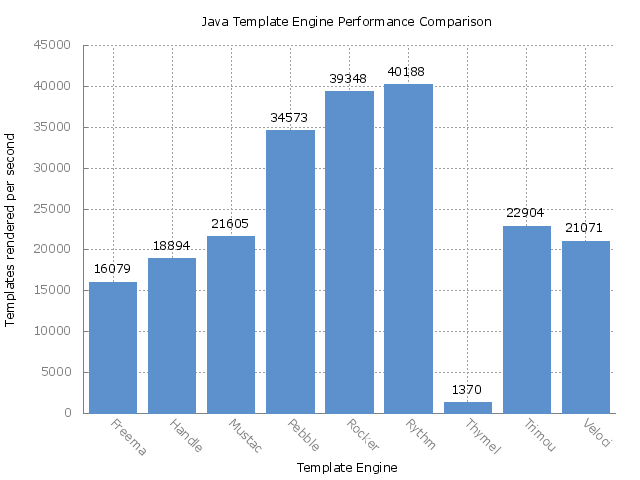
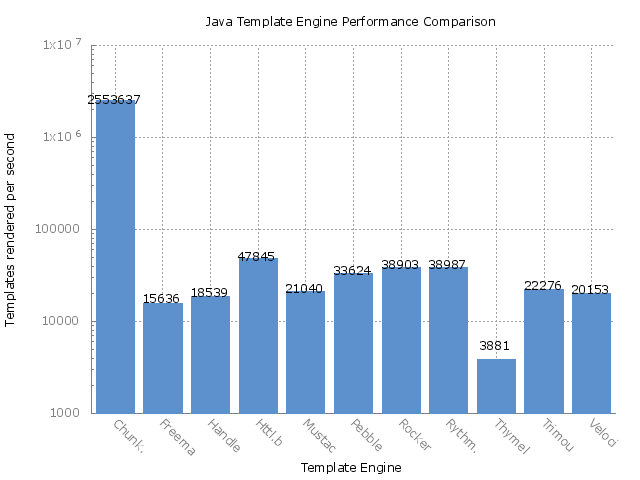
Results graph has a logarithmic y axe because of Chunk templates result. Updated results graph. Added link to Handlebras home page.

diff --git a/README.md b/README.md
@@ -5,6 +5,7 @@ JMH benchmark for popular Java template engines:
 
 * [Chunk](https://github.com/tomj74/chunk-templates/)
 * [Freemarker](http://freemarker.org/)
+* [Handlebars](http://www.handlebarsjs.com/)
 * [HTTL](http://httl.github.io/en/)
 * [Mustache](https://github.com/spullara/mustache.java)
 * [Pebble](http://www.mitchellbosecke.com/pebble)
